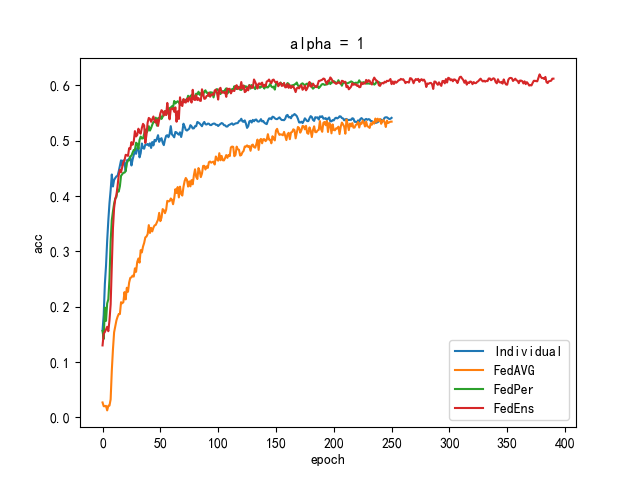
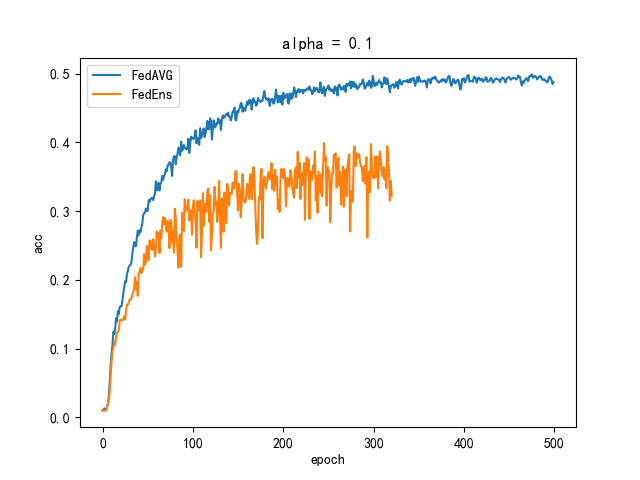
add result

diff --git a/src/server.py b/src/server.py
@@ -13,7 +13,7 @@ class Server:
     local_model is the model architecture of each client;
     global_model is the model need to be aggregated;
     '''
-    def __init__(self, device, global_model,clients, args, test_data=''):
+    def __init__(self, device, global_model,clients, args, test_data_loader=''):
         self.device = device
         self.global_model = global_model
         self.args = args
@@ -23,13 +23,14 @@ class Server:
         # 获取全局数据集
         # self.get_global_dataset(domains, args)
         # 生成用户
-        self.test_data = test_data
+        self.test_data_loader = test_data_loader
         self.clients = clients
         # self.send_parameters()
         self.loss_kl = nn.KLDivLoss(reduction='batchmean')
         self.loss_ce = nn.CrossEntropyLoss()
-
+        self.global_model.to(device)
         self.pre_result = []
+        self.criterion = torch.nn.CrossEntropyLoss().to(self.device)
 
     def average_weights(self, w):
         '''
@@ -136,21 +137,21 @@ class Server:
                     id = int(key[pos1+6:pos2])
                     w_avg[key] = local_weights[id][key]
             #  使用全局模型
-            personalize_layer = []
             for client in range(0,self.args.num_users):
-                self.clients[client].local_model.load_state_dict(local_weights[client])
+                self.clients[client].local_model.load_state_dict(w_avg)
+            global_model_state_dict = self.global_model.state_dict()
             self.global_model.load_state_dict(w_avg)
     # 在全局数据集上测试
     def inference(self):
         self.global_model.eval()
         loss, total, correct = 0.0, 0.0, 0.0
         with torch.no_grad():
-            for batch_idx, (images, labels) in enumerate(self.test_data):
+            for batch_idx, (images, labels) in enumerate(self.test_data_loader):
                 images, labels = images.to(self.device), labels.to(self.device)
 
                 # inference
                 outputs = self.global_model(images)
-                batch_loss = self.global_model(outputs, labels.long())
+                batch_loss = self.criterion(outputs, labels.long())
                 loss += batch_loss.item()
 
                 # prediction
@@ -166,7 +167,7 @@ class Server:
 
         self.global_test_losses = []
         self.global_test_accs = []
-        self.local_test_acc = []
+        self.local_test_accs = []
         self.local_test_losses = []
         self.test_losses = []
         self.test_accs = []
@@ -191,7 +192,7 @@ class Server:
                 print('client = ',client,' acc = ',acc,' loss = ',loss)
                 local_test_accs.append(copy.deepcopy(acc))
                 local_test_losses.append(copy.deepcopy(loss))
-            policy_list = [1,4] # FedAVG 和 FedEns的全部聚合
+            policy_list = [1,4] # FedAVG 和 FedEns的全部聚合,在平衡数据集上测试
             if self.args.policy in policy_list:
                 global_test_acc,global_test_loss = self.inference()
             else:
@@ -227,7 +228,7 @@ class Server:
 
     def print_res(self):
         print(f'Final Accuracy :{self.test_accs[-1]}')
-        print(f'Best Accuracy:{max(self.test_acsc)}')
+        print(f'Best Accuracy:{max(self.test_accs)}')
         # for domain in self.domains:
         #     print(f'domain: {domain}')
         #     print(f'Best accuracy: {max(self.domain_test_acc[domain])}')

diff --git a/show_result2.py b/show_result2.py
@@ -15,15 +15,15 @@ os.environ['KMP_DUPLICATE_LIB_OK'] = 'TRUE'
 mpl.rcParams['font.family'] = 'SimHei'
 plt.rcParams['axes.unicode_minus'] = False
 if __name__ == '__main__':
-    alpha = 1
+    alpha = 0.1
     dataset = 'cifar100'
     # cifar100 0.05 2 3
     file_name = {
-        # f'Z:\zhangxingyan\Fed_ensemble\save/Result_dataset({dataset})_N(32)_E(1)_trainnum(500)_P(1)_lr(0.01)_name({dataset}_alpha_d_{alpha}_P_1).json',
-        "Individual":   f'Z:\zhangxingyan\Fed_ensemble\save/Result_dataset({dataset})_N(32)_E(1)_trainnum(500)_P(0)_lr(0.01)_name({dataset}_alpha_d_{alpha}_P_0).json',
-        "FedAVG":       f'Z:\zhangxingyan\Fed_ensemble\save/Result_dataset({dataset})_N(32)_E(1)_trainnum(500)_P(1)_lr(0.01)_name({dataset}_alpha_d_{alpha}_P_1).json',
-        "FedPer":       f'Z:\zhangxingyan\Fed_ensemble\save/Result_dataset({dataset})_N(32)_E(1)_trainnum(500)_P(3)_lr(0.01)_name({dataset}_alpha_d_{alpha}_P_3).json',
-        "FedEns":       f'Z:\zhangxingyan\Fed_ensemble\save/Result_dataset({dataset})_N(32)_E(1)_trainnum(500)_P(2)_lr(0.01)_name({dataset}_alpha_d_{alpha}_P_2).json',
+
+        "FedAVG":
+            f'Z:\zhangxingyan\Fed_ensemble\save/Result_dataset({dataset})_N(32)_E(1)_trainnum(500)_P(1)_lr(0.01)_name({dataset}_alpha_d_{alpha}_P_1).json',
+        "FedEns":
+            f'Z:\zhangxingyan\Fed_ensemble\save/Result_dataset({dataset})_N(32)_E(1)_trainnum(500)_P(4)_lr(0.01)_name({dataset}_alpha_d_{alpha}_P_4).json',
     }
 
 
@@ -31,10 +31,7 @@ if __name__ == '__main__':
         try:
             with open(file) as f:
                 f  = json.load(f)
-                key = 'test_acc'
-                if key not in f.keys():
-                    key = 'test_accs'
-
+                key = 'global_test_accs'
                 num = len(f[key])
                 # for i in range(num):
                 plt.plot(f[key][:], label=name)

diff --git a/main.py b/main.py
@@ -59,6 +59,10 @@ def get_model(args):
             global_model = CifarRes()
             for i in range( 0,args.num_users):
                 client_model.append(CifarRes())
+        elif args.policy == 4:
+            global_model = CifarResEns(0,args.num_users)
+            for i in range(0,args.num_users):
+                client_model.append(CifarResEns(i,args.num_users))
         else:
             print('error input ')
             exit(0)
@@ -80,14 +84,18 @@ def get_model(args):
             global_model = CifarRes(num_classes=100)
             for i in range( 0,args.num_users):
                 client_model.append(CifarRes(num_classes=100))
+        elif args.policy == 4:
+            global_model = CifarResEns(0,args.num_users,num_classes=100)
+            for i in range(0,args.num_users):
+                client_model.append(CifarResEns(i,args.num_users,num_classes=100))
         else:
-            print('error input ')
+            print('error input policy')
             exit(0)
     else:
-        print('error input')
+        print('error input dataset')
         exit(0)
 
-
+    print(global_model)
     return global_model,client_model
 
 def train(args):
@@ -107,7 +115,7 @@ def train(args):
     clients = [Client(device, client_model[i], dataset.train[i], dataset.test[i], args) for i in range(args.num_users)]
 
     train_set,test_set = get_pub_data(args.pub_data,args)
-    server = Server(device,global_model,clients,args,pub_data=train_set)
+    server = Server(device,global_model,clients,args,test_data_loader=test_set)
     server.train()
     # server.fine_fune()
     # server.train()

diff --git a/readme.md b/readme.md
@@ -8,7 +8,7 @@
 #### 1.  Res 模型， fedavg聚合
 #### 2.  ResEns 模型， 个性化分类器，拼接特征
 #### 3.  Res模型， 个性化分类器
-
+#### 4.  ResEns 模型， 分类器也共享
         python3 main.py  --dataset cifar10 --num_classes 10 --epochs 500  --num_users 32 --local_ep 1 --local_bs 100 --train_num 500  --test_num 100 --lr 0.01 \
         --policy 0  \
         --iid 0 --noniid dirichlet --alpha 0.5  \
@@ -28,6 +28,11 @@
         --policy 3   \
         --iid 0 --noniid dirichlet --alpha 0.5  \
         --name cifar10_alpha_d_0.5_P_3
+
+        python3 main.py  --dataset cifar10 --num_classes 10 --epochs 500  --num_users 32 --local_ep 1 --local_bs 100 --train_num 500 --test_num 100 --lr 0.01 \
+        --policy 4   \
+        --iid 0 --noniid dirichlet --alpha 0.5  \
+        --name cifar10_alpha_d_0.5_P_4
 # cifar100
 ## 0.01 0.1 0.5
         python3 main.py  --dataset cifar100 --num_classes 100 --epochs 500  --num_users 32 --local_ep 1 --local_bs 100 --train_num 500  --test_num 100 --lr 0.01 \
